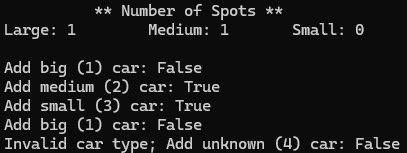
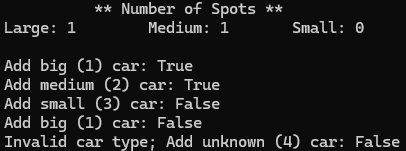
Fixed error
Had switch-case backwards where large (1) was small (3) and small (3) was large (1). Also added counts to make it easier to add a RemoveCar() method in the future.

diff --git a/ParkingSystem.cs b/ParkingSystem.cs
@@ -2,15 +2,23 @@
 {
     public class ParkingSystem
     {
-        public int SmallSpaces { get; set; }
-        public int MediumSpaces { get; set; }
-        public int LargeSpaces { get; set; }
+        private int SmallSpaces { get; }
+        private int MediumSpaces { get; }
+        private int LargeSpaces { get; }
+
+        private int SmallCount { get; set; }
+        private int MediumCount { get; set; }
+        private int LargeCount { get; set; }
 
         public ParkingSystem(int large, int medium, int small)
         {
             SmallSpaces = small;
             MediumSpaces = medium;
             LargeSpaces = large;
+
+            SmallCount = small;
+            MediumCount = medium;
+            LargeCount = large;
         }
 
         public bool AddCar(int carType)
@@ -18,23 +26,24 @@
             switch (carType)
             {
                 case 1:
-                    if (SmallSpaces > 0)
+                    if (LargeCount > 0)
                     {
-                        SmallSpaces--;
+                        LargeCount--;
                         return true;
                     }
                     else return false;
+
                 case 2:
-                    if (MediumSpaces > 0)
+                    if (MediumCount > 0)
                     {
-                        MediumSpaces--;
+                        MediumCount--;
                         return true;
                     }
                     else return false;
                 case 3:
-                    if (LargeSpaces > 0)
+                    if (SmallCount > 0)
                     {
-                        LargeSpaces--;
+                        SmallCount--;
                         return true;
                     }
                     else return false;
